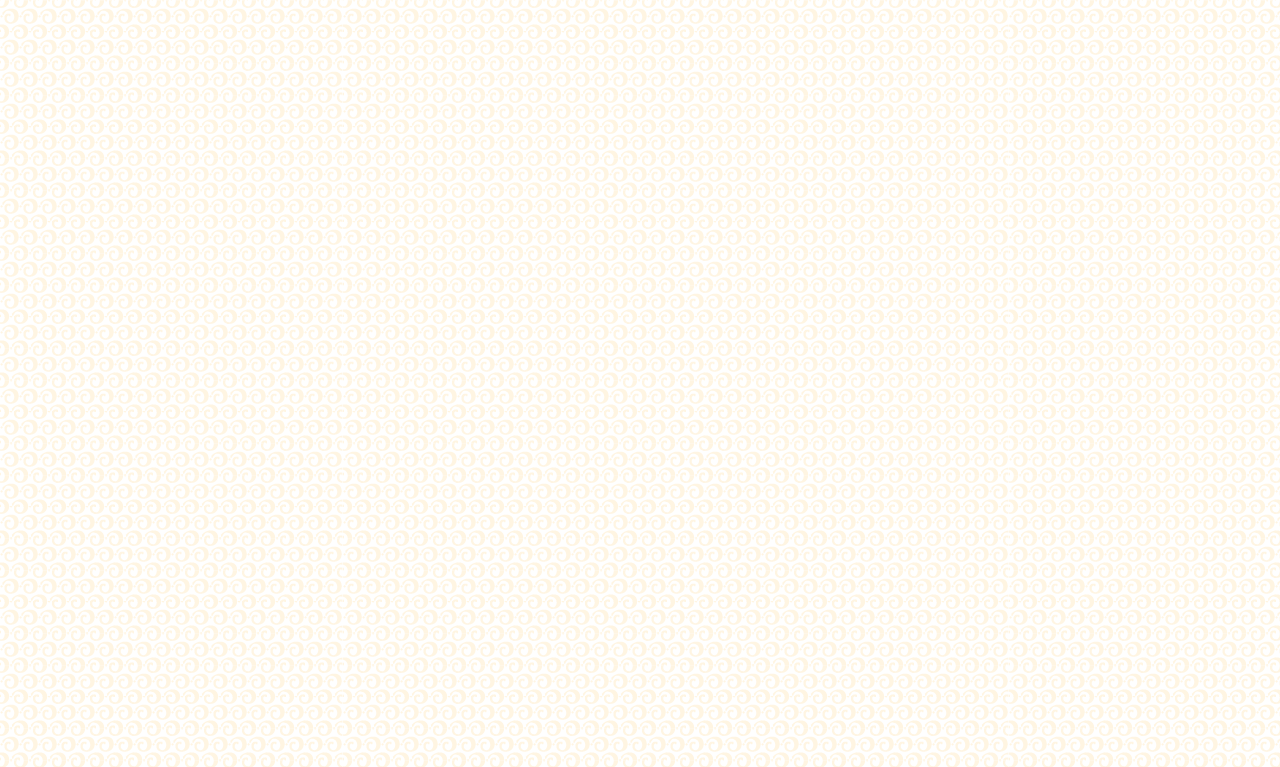
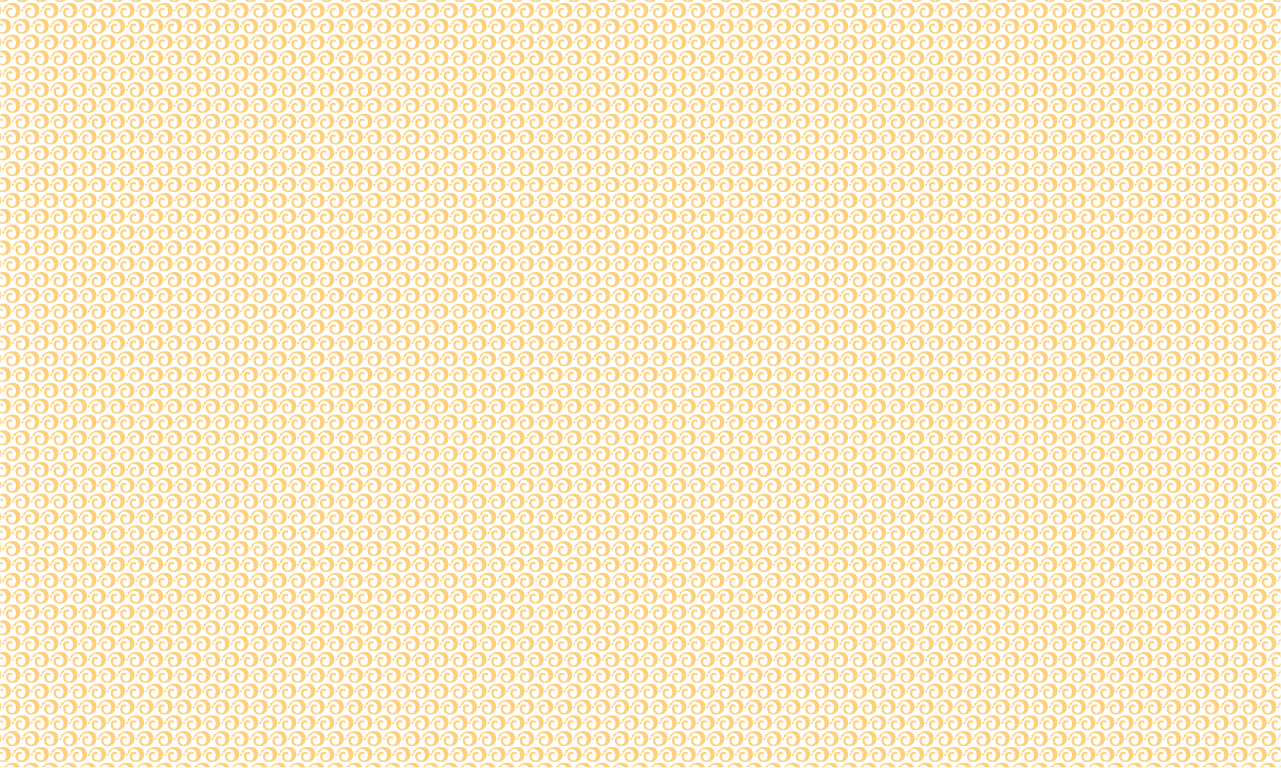
fondos

diff --git a/index.html b/index.html
@@ -73,7 +73,7 @@
     <section class="perfil-contenedor">
         <img src="./Imagenes/mi nombre.png">
         <p>Ciao! Per tutti sono Emi.</p>
-        <p>Sonopersona che ama dare forma e colore alle idee, sia attraverso l'arte digitale che con le mani in cucina. La mia passione per la pasticceria mi ha fatto scoprire che la creatività non conosce confini, sia che si tratti di impasti fragranti o di design accattivanti.
+        <p>Sono una persona che ama dare forma e colore alle idee, sia attraverso l'arte digitale che con le mani in cucina. La mia passione per la pasticceria mi ha fatto scoprire che la creatività non conosce confini, sia che si tratti di impasti fragranti o di design accattivanti.
         </p> 
     </section>
     <section class="imagen-contenedor">   

diff --git a/Styles/style.css b/Styles/style.css
@@ -63,8 +63,6 @@ h6{
     "contacto contacto" /* imagen-contenedor */ /* skill idioma interes */
     "footer footer";
     background-color: #ffd07b;
-    background-image: url(../Imagenes/fondo-1.png);
-    /* background-blend-mode: multiply; */
 }
 
 .header{
